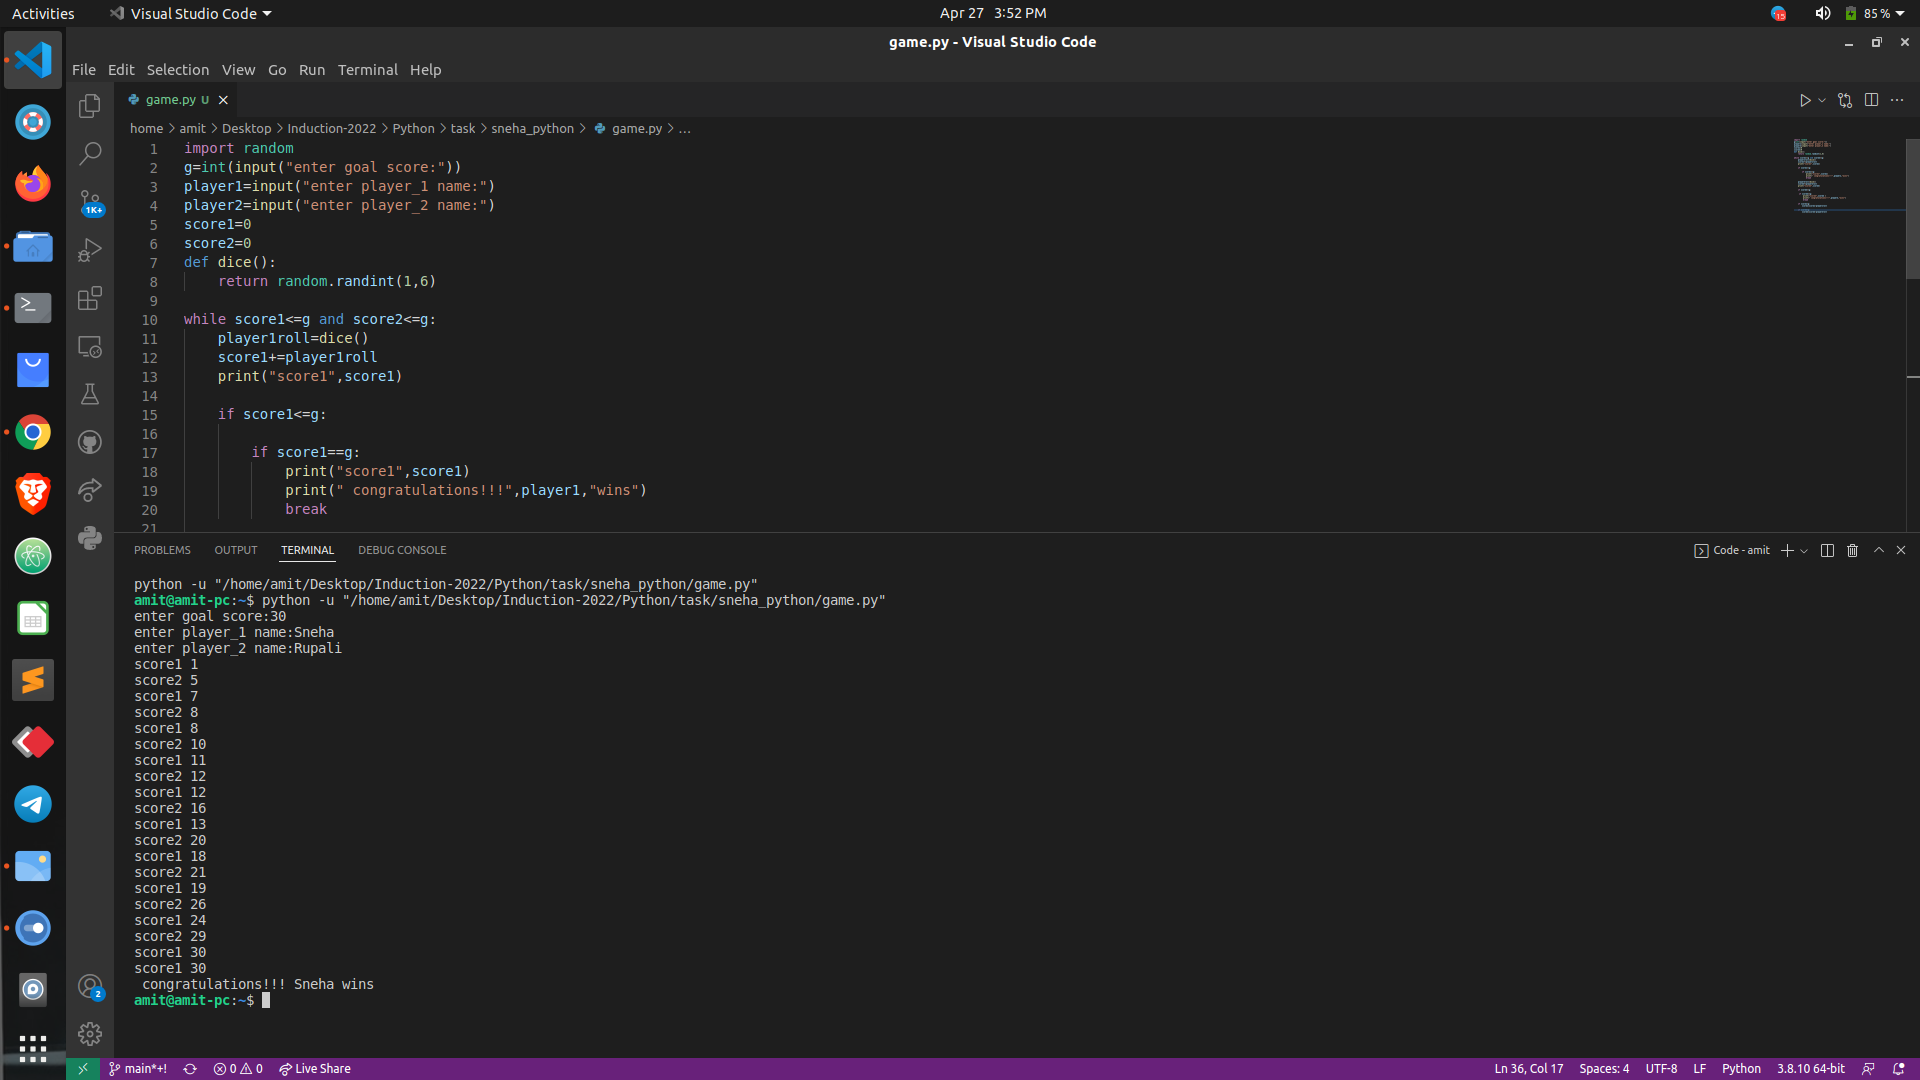
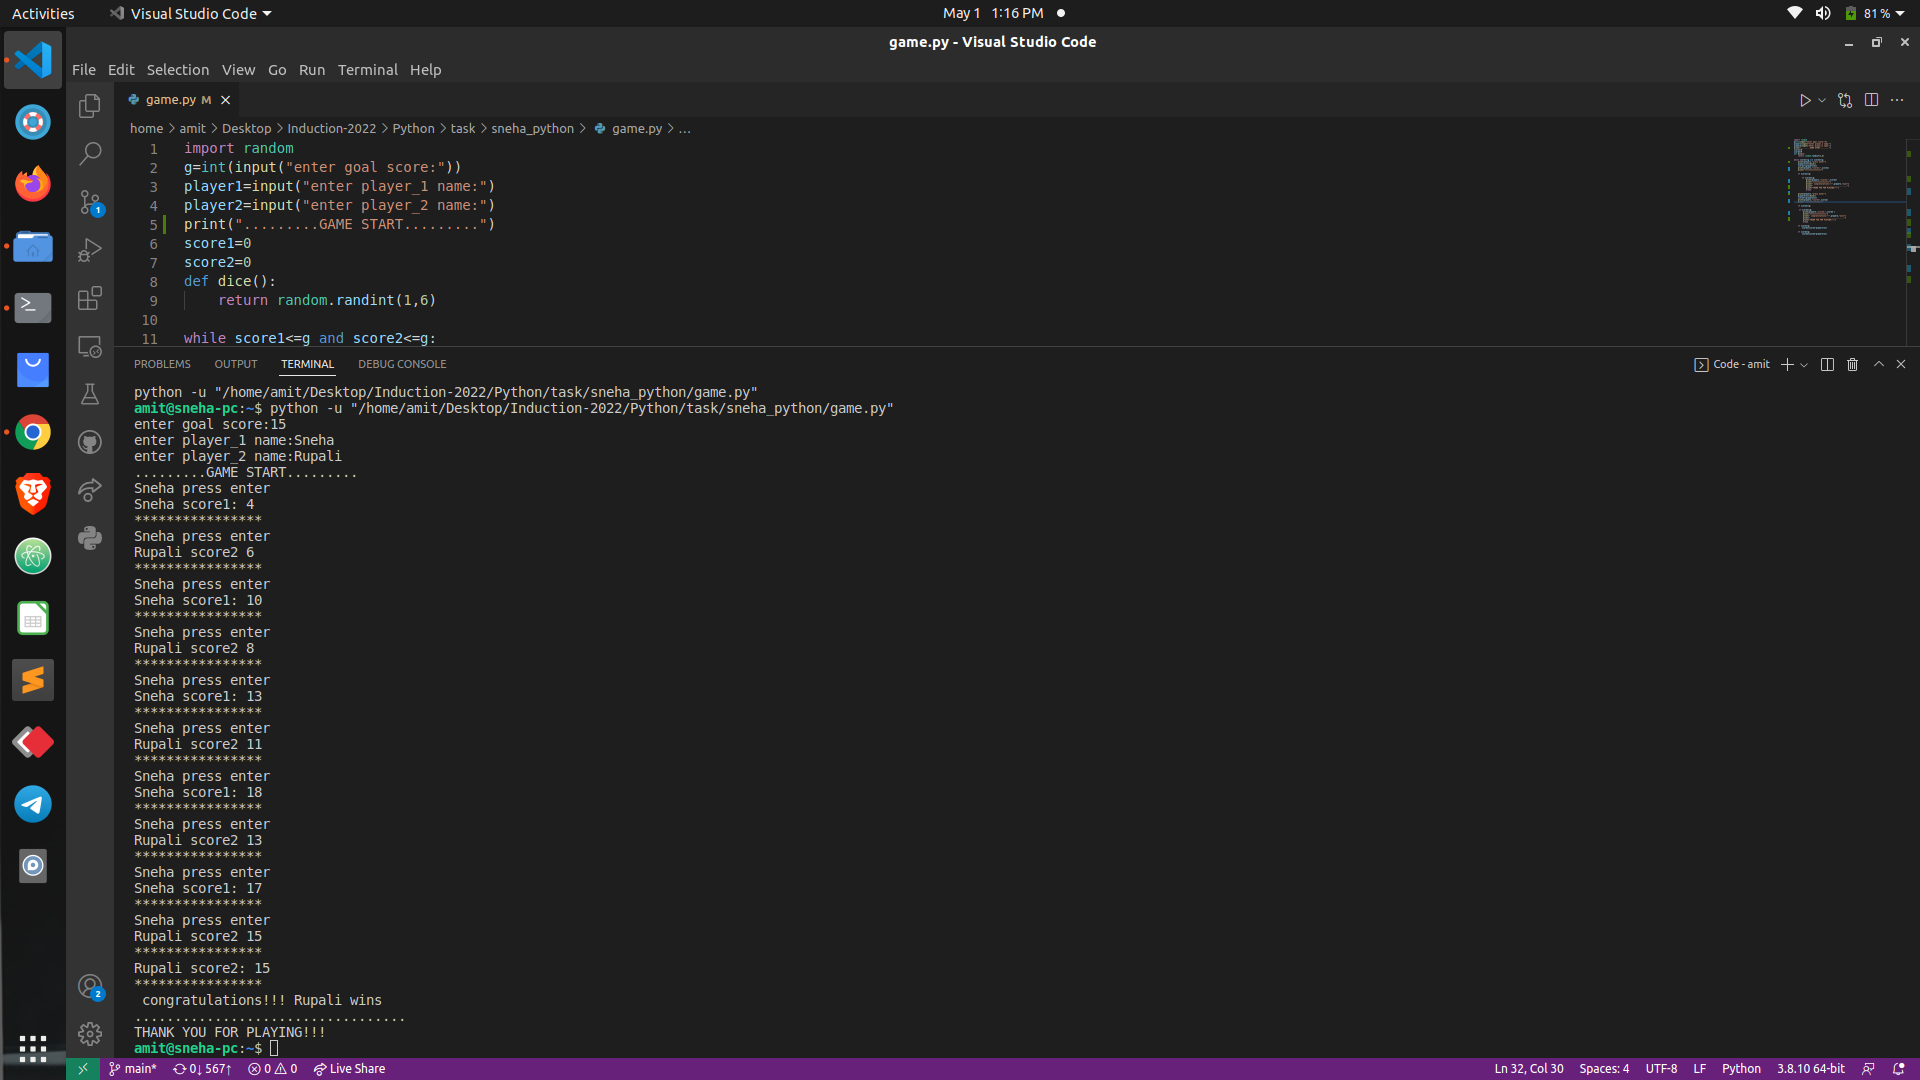
python_task

diff --git a/Python/task/sneha_python/game.py b/Python/task/sneha_python/game.py
@@ -2,6 +2,7 @@ import random
 g=int(input("enter goal score:"))
 player1=input("enter player_1 name:")
 player2=input("enter player_2 name:")
+print(".........GAME START.........")
 score1=0
 score2=0
 def dice():
@@ -9,25 +10,38 @@ def dice():
 
 while score1<=g and score2<=g:
     player1roll=dice()
-    score1+=player1roll 
-    print("score1",score1)
+    print(f"{player1} scored :{score1}")
+    score1+=player1roll
+     
+    #print(player1,"score1:",score1)
+    print("****************")
 
     if score1<=g:
        
         if score1==g:
-            print("score1",score1)
+            #print(player1,"score1:",score1)
+            print(f"{player1} scored :{score1}")
+            print("****************")
             print(" congratulations!!!",player1,"wins") 
+            print("..................................")
+            print("THANK YOU FOR PLAYING!!!")
             break
-    
+        
     player2roll=dice()
+    print(f"{player2} scored :{score2}")
     score2+=player2roll
-    print("score2",score2)
+    #print(player2,"score2",score2)
+    print("****************")
    
     if score2<=g:
       
      if score2==g:
-         print("score2",score2 )
+         print(f"{player2} scored :{score2}")
+         #print(player2,"score2:",score2 )
+         print("****************")
          print(" congratulations!!!",player2,"wins")
+         print("..................................")
+         print("THANK YOU FOR PLAYING!!!")
          break
      
     if score1>g:
